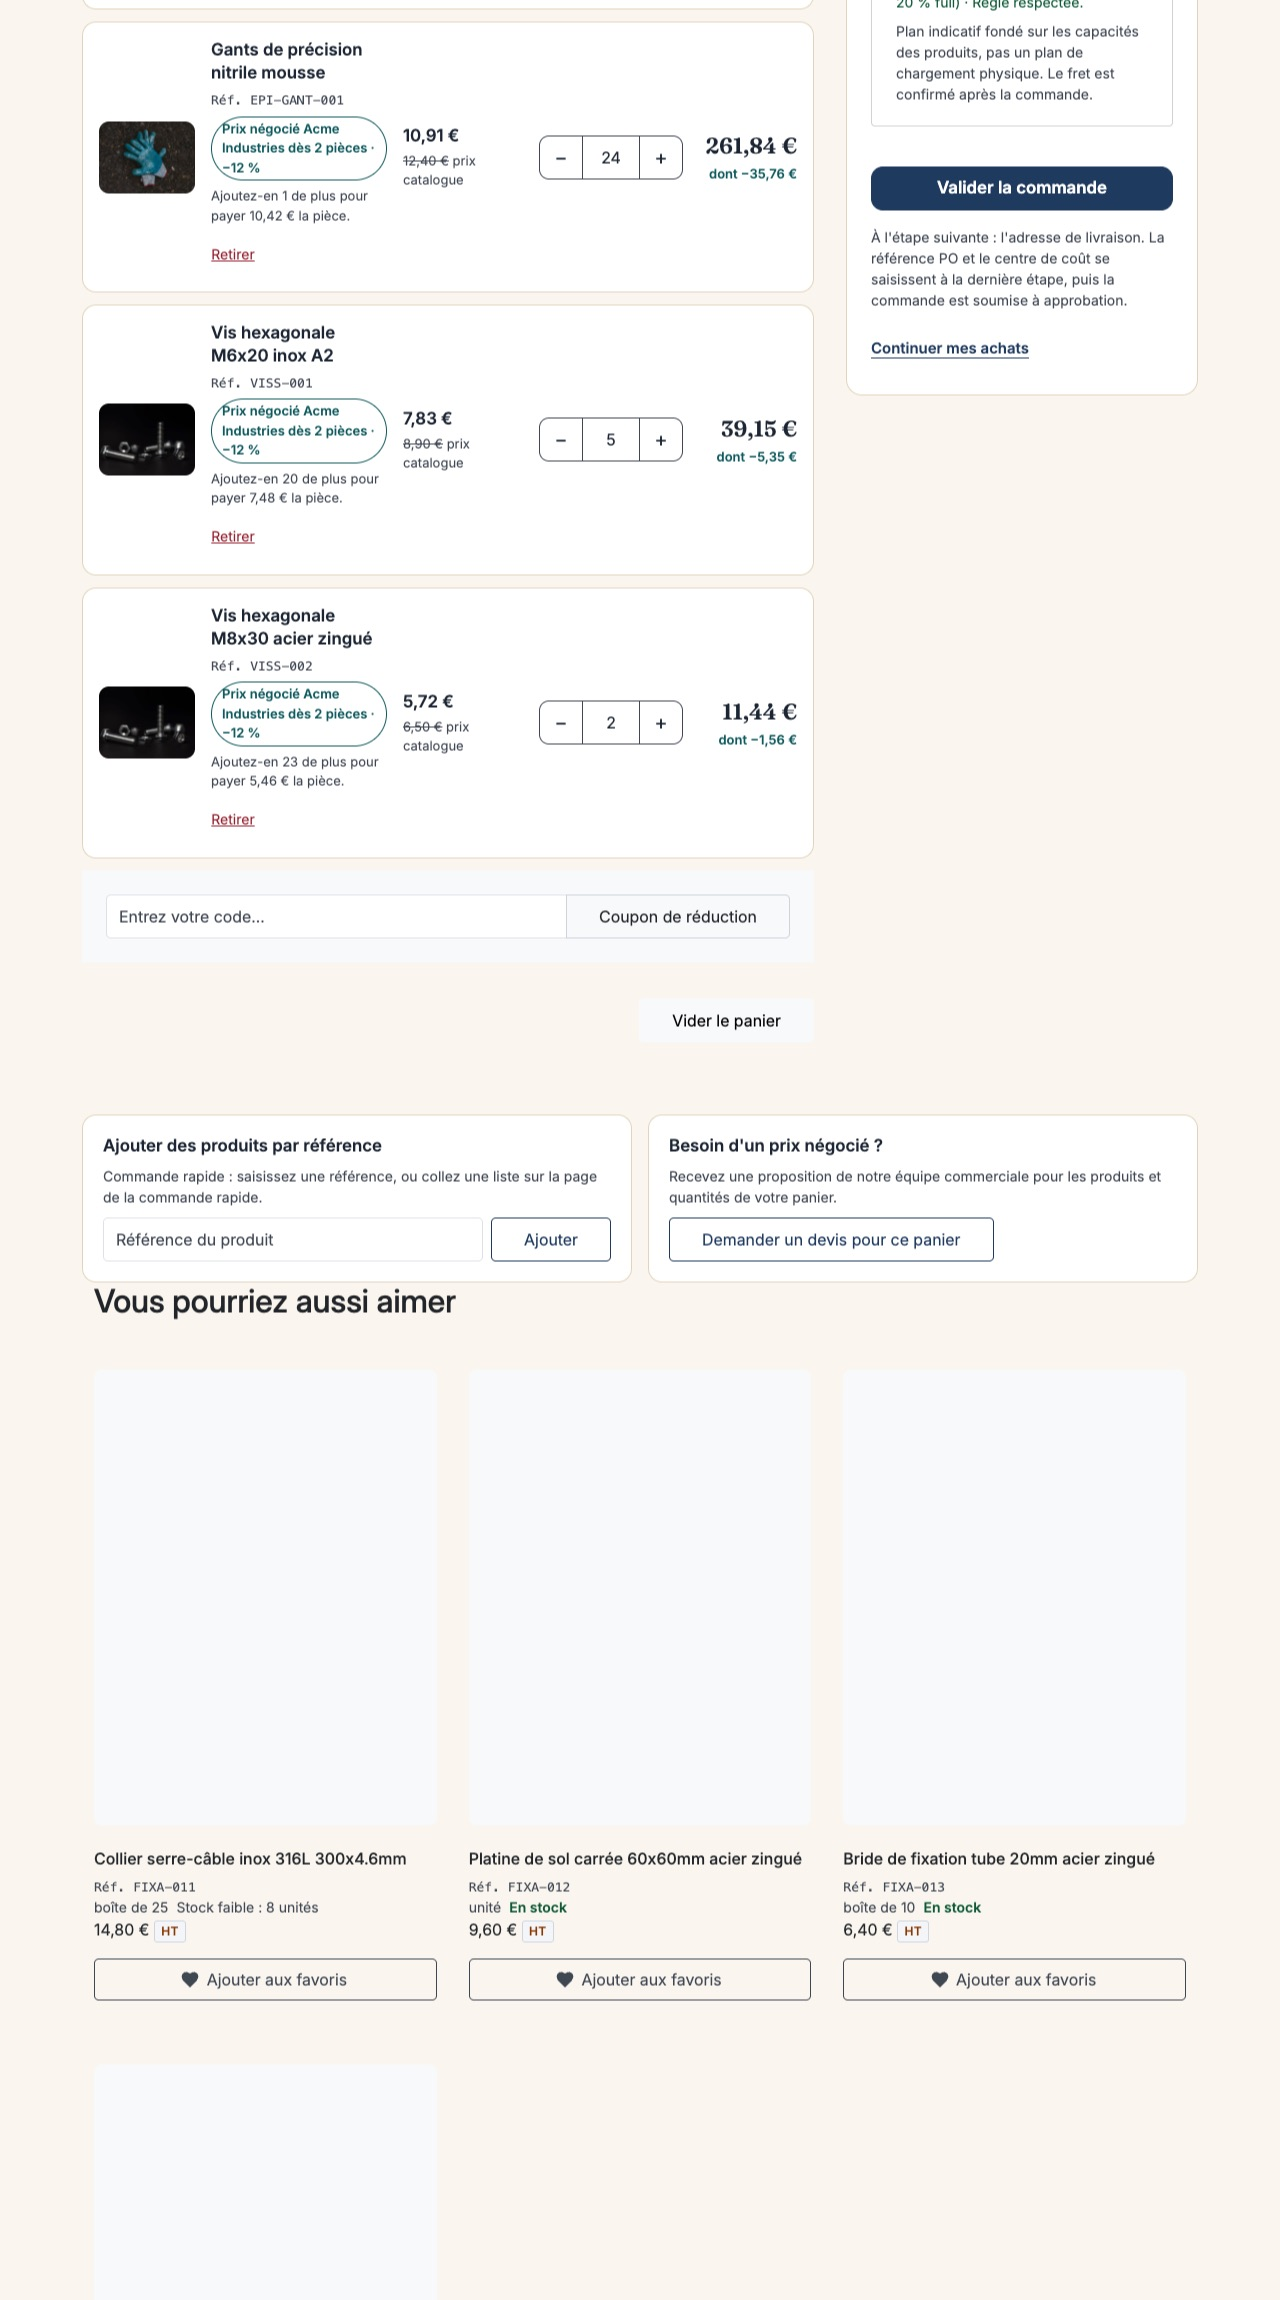
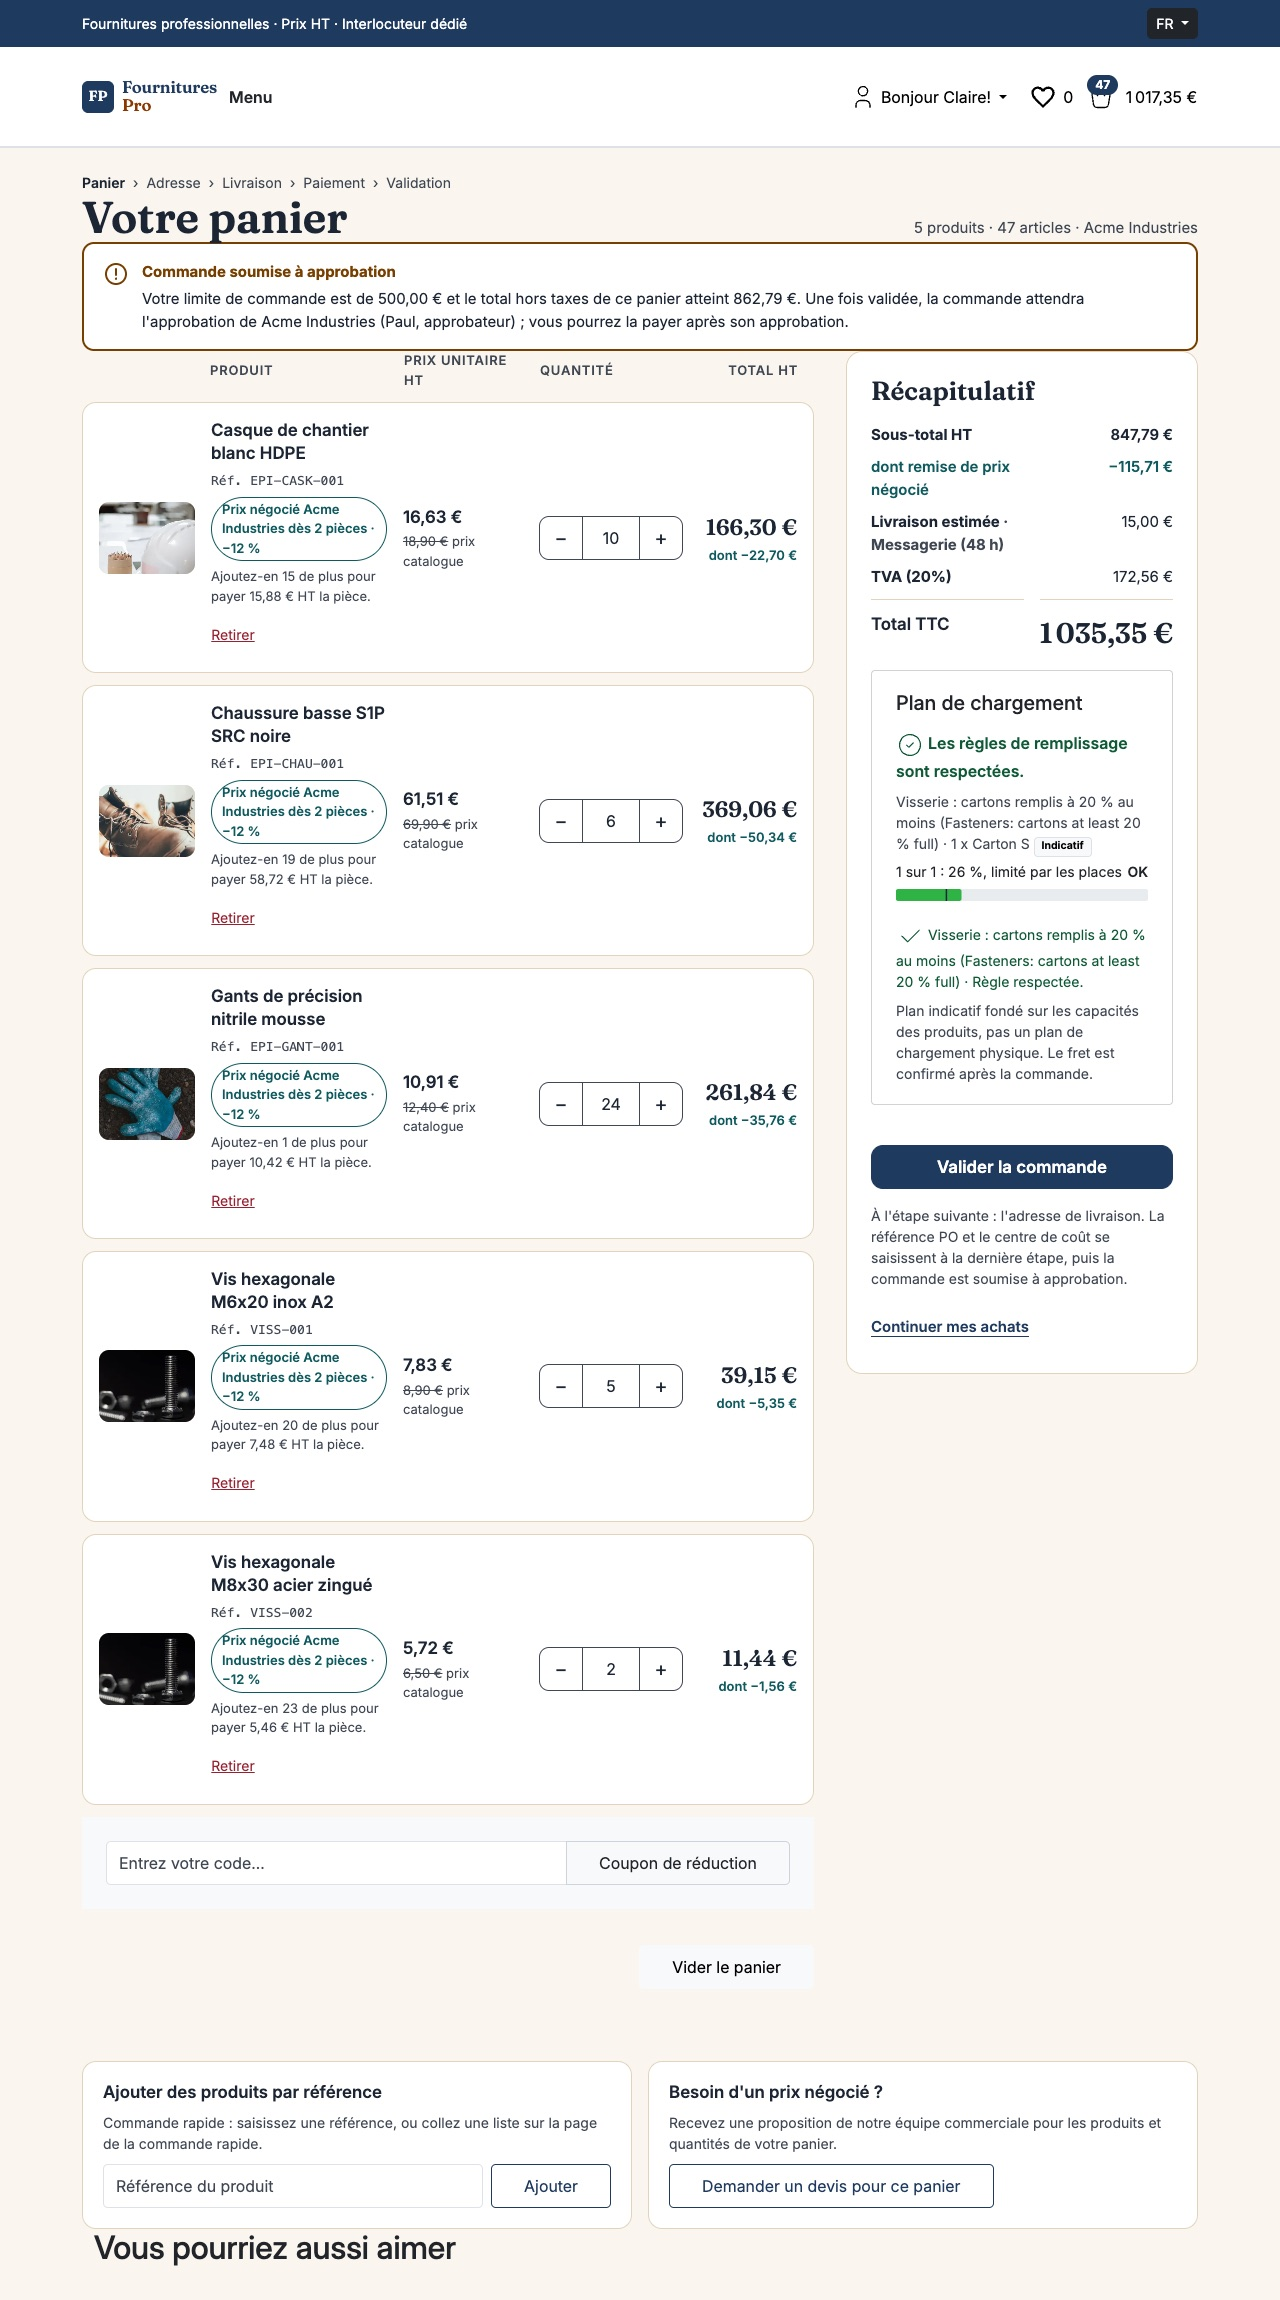
docs(US-202): captures du panier avec TVA, section du panier, mesures (pa11y AAA, 360 px) ; taux nommé « TVA »
Claude-Session: https://claude.ai/code/session_01EUTS3K2bdSqoL7EFUFktDX

diff --git a/docs/theme-b2b.md b/docs/theme-b2b.md
@@ -86,12 +86,13 @@ La liste (catégorie, filtre de recherche, état vide) suit la maquette validée
 Le panier suit la maquette validée par Thibaut. **Le canal B2C garde le panier du cœur** (test) : chaque gabarit du cœur remplacé a une branche B2C identique (`is_granted('DEMO_CONSUMER_CHANNEL')`) ou un hookable gardé par `condition`.
 
 - **Gabarits** (`templates/shop/theme_b2b/cart/`, hooks dans `config/packages/demo_theme_b2b.yaml`) : `form` (le composant vivant du cœur change de gabarit, état vide compris), `header` (étapes, titre, nombre de produits et d'articles), `approval` (message avant la validation), `items` (une carte par ligne : photo, nom, référence, palier ou prix négocié, prix unitaire HT avec prix catalogue barré, quantité −/+ de 44 px, total de ligne « dont −X », « Retirer »), `summary` (récapitulatif lu sur la commande telle que la boutique la calcule), `after_checkout`, `coupon` (le bloc du cœur avec un nom pour le champ). Le bouton « Valider la commande » est le gabarit `shop/container_fill/cart_checkout.html.twig` (même règle de remplissage que le plugin). La commande rapide et le devis restent les hookables de leurs plugins (même nom, même route, même jeton), re-gabarités dans `tmonier_plugins_overrides_cart.yaml` en deux cartes sous les lignes.
-- **Message d'approbation** : `CartApprovalNoticeProvider` appelle le contrôleur de règle du plugin de validation des achats (`tmonier_purchase_approval.requirement_checker` : même total, même limite, même éligibilité), sans rien décider ni stocker ; il nomme un approbateur de la société qui pourrait décider ce montant. Fonctions Twig `app_b2b_cart_approval` et `app_b2b_cart_line_discount` (`CartThemeExtension`).
-- **TVA** : le récapitulatif affiche ce que la boutique calcule. Les produits de la démo n'ont pas de catégorie de taxe : aucune ligne de taxe n'existe, la ligne « TVA » n'est donc pas affichée et le total s'appelle « Total ». Elle apparaît dès qu'une taxe est calculée.
+- **Message d'approbation** : `CartApprovalNoticeProvider` appelle le contrôleur de règle du plugin de validation des achats (`tmonier_purchase_approval.requirement_checker` : même montant comparé, même limite, même éligibilité), sans rien décider ni stocker ; il nomme un approbateur de la société qui pourrait décider ce montant. Fonctions Twig `app_b2b_cart_approval` et `app_b2b_cart_line_discount` (`CartThemeExtension`).
+- **TVA** (US-202, sprint 30) : tous les produits du catalogue portent la catégorie de taxe `standard` (TVA 20 %, zone France, taxe non incluse dans le prix) et la méthode de livraison `carrier` aussi : les prix affichés restent hors taxe (liste, fiche, panier), le récapitulatif montre le sous-total HT, la livraison hors taxe, la ligne « TVA (20%) » (articles et livraison) et le « Total TTC ». Les commandes passées gardent leur TVA. L'historique de commandes écrit en masse (`BulkOrderWriter`) reste hors taxe, sans TVA, pour ne pas changer les montants du tableau de bord des achats. La zone `Europe` est une zone de livraison seulement (portée `shipping`) : en zone de taxe, elle masquait la TVA dès que l'adresse de livraison était saisie. Le flux ERP simulé ne crée aucun produit (prix et stocks de variantes du catalogue), qui portent donc la catégorie.
+- **Limite d'approbation hors taxe** (US-202) : le plugin de validation des achats (version 1.4, réglage `amount_basis`) compare la limite d'ordre au total hors taxe de la commande, figé sur la demande ; la démo le règle à `net` (`config/packages/demo_purchase_approval.yaml`). Le message du panier annonce le même montant (« total hors taxes »). Le calcul de l'approbateur qui peut décider ce montant est dans `ApproverNameProvider`.
 - **Références et PO** : la référence de commande et le centre de coût se saisissent à la dernière étape du tunnel (pas dans le panier) ; le panier le dit sous le bouton.
 - **Styles et script** : `assets/shop/styles/_cart.scss` (jetons et polices de la home, cibles de 44 px, une colonne sous 1 200 px, cinq colonnes de ligne dès 760 px) ; `assets/shop/controllers/b2b-cart-quantity_controller.js` (les boutons − et + changent le champ et préviennent le formulaire vivant, qui recalcule côté serveur).
-- **Tests** : `CartPageTest` (lignes, palier, approbation, devis, panier vide, repères, B2C), `CartToOrderTest` (panier de Claire jusqu'à la commande en attente d'approbation), `CartTextCharterTest`.
-- **Captures** : `docs/images/cart-buyer-fr.jpg` (1280 px, Claire : cinq lignes à prix négocié, limite dépassée), `cart-buyer-360-fr.jpg` (360 px), `cart-empty-fr.jpg` (panier vide). Rendues par le noyau en ligne de commande (`APP_ENV=test` avec `--login`).
+- **Tests** : `CartPageTest` (lignes, palier, approbation, devis, panier vide, repères, B2C), `CartToOrderTest` (panier de Claire jusqu'à la commande en attente d'approbation, TVA de la commande), `CartTaxTest` (catégorie de taxe, TVA, prix HT inchangés), `CartApprovalNetLimitTest` (limite hors taxe), `CartTextCharterTest`.
+- **Captures** : `docs/images/cart-buyer-fr.jpg` (1280 px, Claire : cinq lignes à prix négocié, limite dépassée), `cart-buyer-360-fr.jpg` (360 px), `cart-empty-fr.jpg` (panier vide). Rendues par le noyau en ligne de commande (`APP_ENV=test` avec `--login`) ; les deux premières ont été refaites au sprint 30 avec la TVA, vignettes réelles.
 
 ## Mon compte B2B (US-199, sprint 30)
 

diff --git a/project-management/sprints/sprint-30-compte-tableau-de-bord-et-tva/tasks/US-202-tasks.md b/project-management/sprints/sprint-30-compte-tableau-de-bord-et-tva/tasks/US-202-tasks.md
@@ -47,8 +47,8 @@
 | T-202-03 | [DB] | Catégorie `standard` affectée aux produits des fixtures et aux produits de l'import ERP simulé ; historique de commandes cohérent (ou décision notée) ; fixtures rechargées en local | 1 h | T-202-02 | Claude | ✅ |
 | T-202-04 | [FE-WEB] | Récapitulatif du panier : ligne TVA et total TTC réaffichés à la place de la maquette validée ; récapitulatif de commande et e-mails relus ; AAA et 360 px conservés | 0,75 h | T-202-03 | Claude | ✅ |
 | T-202-05 | [BE] | Limite d'approbation comparée au HT par décoration dans la démo (contrôle, politique, montant de la demande, message du panier) ; plugin non modifié ; si impossible, arrêt et question à Thibaut notée au registre | 0,75 h | T-202-03 | Claude | ✅ |
-| T-202-06 | [TEST] | Suite ciblée par `bin/run-tests` (panier, paliers, approbation, tunnel de commande de bout en bout, import ERP, tableau de bord des achats), prix comparés avant/après, PHPStan max sur tout le dépôt, ECS, Rector, lint Twig et YAML, pa11y du panier FR et EN ; commande exacte et dernière ligne citées | 0,75 h | T-202-04, T-202-05 | Claude | 🔲 |
-| T-202-07 | [DOC] | Captures `docs/images/cart-*` mises à jour par `bin/render-page`, section du panier de `docs/theme-b2b.md` | 0,5 h | T-202-06 | Claude | 🔲 |
+| T-202-06 | [TEST] | Suite ciblée par `bin/run-tests` (panier, paliers, approbation, tunnel de commande de bout en bout, import ERP, tableau de bord des achats), prix comparés avant/après, PHPStan max sur tout le dépôt, ECS, Rector, lint Twig et YAML, pa11y du panier FR et EN ; commande exacte et dernière ligne citées | 0,75 h | T-202-04, T-202-05 | Claude | ✅ |
+| T-202-07 | [DOC] | Captures `docs/images/cart-*` mises à jour par `bin/render-page`, section du panier de `docs/theme-b2b.md` | 0,5 h | T-202-06 | Claude | ✅ |
 | T-202-08 | [TEST] | Image reconstruite et conteneur neuf : panier et commande avec TVA ; production **après la remise à zéro de 03:00** suivant le déploiement, lecture seule : prix HT publics inchangés ; mesures consignées | 0,5 h | merge de la PR | Claude | 🔲 |
 | T-202-09 | [REV] | Revue (ton neutre, parité FR et EN, prix inchangés, plugin non modifié) et table « scénario → test ou preuve » remplie | 0,25 h | T-202-08 | Claude | 🔲 |
 
@@ -63,6 +63,19 @@
 - **Limite d'approbation** (décision de Thibaut, option A, registre 57f6d56) : le plugin compare `getTotal()` et ses services sont `final` (pas de décoration possible) : plugin purchase-approval 1.4.0 (réglage `amount_basis`, PR #9 et #10), `amount_basis: net` dans `config/packages/demo_purchase_approval.yaml`. Le message du panier (`CartApprovalNoticeProvider`) annonce le même montant (hors taxes) par le résolveur ; le calcul de l'approbateur est dans `ApproverNameProvider::firstNameFor()`.
 - **Constat de la livraison** : la zone `EU` (zone de livraison) était aussi retenue comme zone de taxe dès que l'adresse de livraison était connue : la TVA disparaissait au checkout. Zone `EU` en portée `shipping` (fixtures) ; `CartToOrderTest` vérifie la TVA de la commande passée.
 - Test d'isolation corrigé dans `tests/Support/BuildsDemoCarts.php` (deux paniers créés dans la même seconde).
+
+## Mesures (w202, 2026-10-25, local : rendu du noyau `APP_ENV=test` avec `--login`, Claire, vignettes réelles)
+
+| Contrôle | Commande | Résultat |
+|----------|----------|----------|
+| Lint Twig | `php -d memory_limit=1G bin/console lint:twig templates/shop/theme_b2b/cart` | `All 11 Twig files contain valid syntax.` |
+| Lint YAML | `php -d memory_limit=1G bin/console lint:yaml config translations` | `All 171 YAML files contain valid syntax.` |
+| pa11y WCAG2AAA, panier FR | `pa11y --config cfg.json http://127.0.0.1:8731/fr_FR-cart.html` | `No issues found!` |
+| pa11y WCAG2AAA, panier EN | idem `en_US-cart.html` | `No issues found!` |
+| Débordement horizontal à 1280 px et à 360 px | puppeteer, `scrollWidth - clientWidth` | 0 et 0 |
+| Captures | `docs/images/cart-buyer-fr.jpg` (1280), `cart-buyer-360-fr.jpg` (360) | relues : TVA (20%), Total TTC, vignettes réelles |
+
+Limite de `bin/render-page` : il ne génère les vignettes que pour les URL absolues `http://127.0.0.1/media/cache/...` ; le panier émet des URL relatives (`/media/cache/...`), la copie de travail du script en tient compte (non commitée, fichier de l'orchestrateur).
 
 ## Table « scénario → test ou preuve »
 
